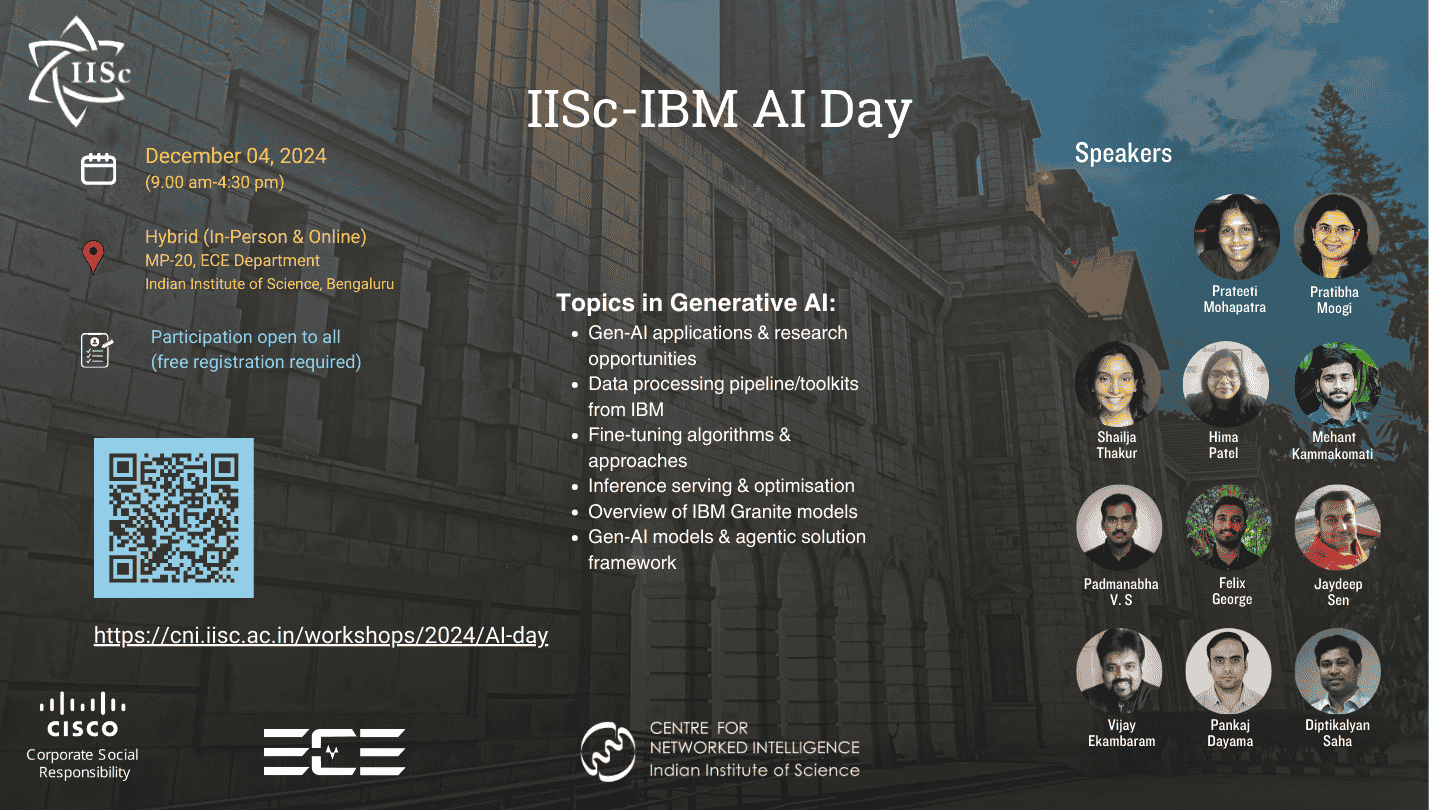
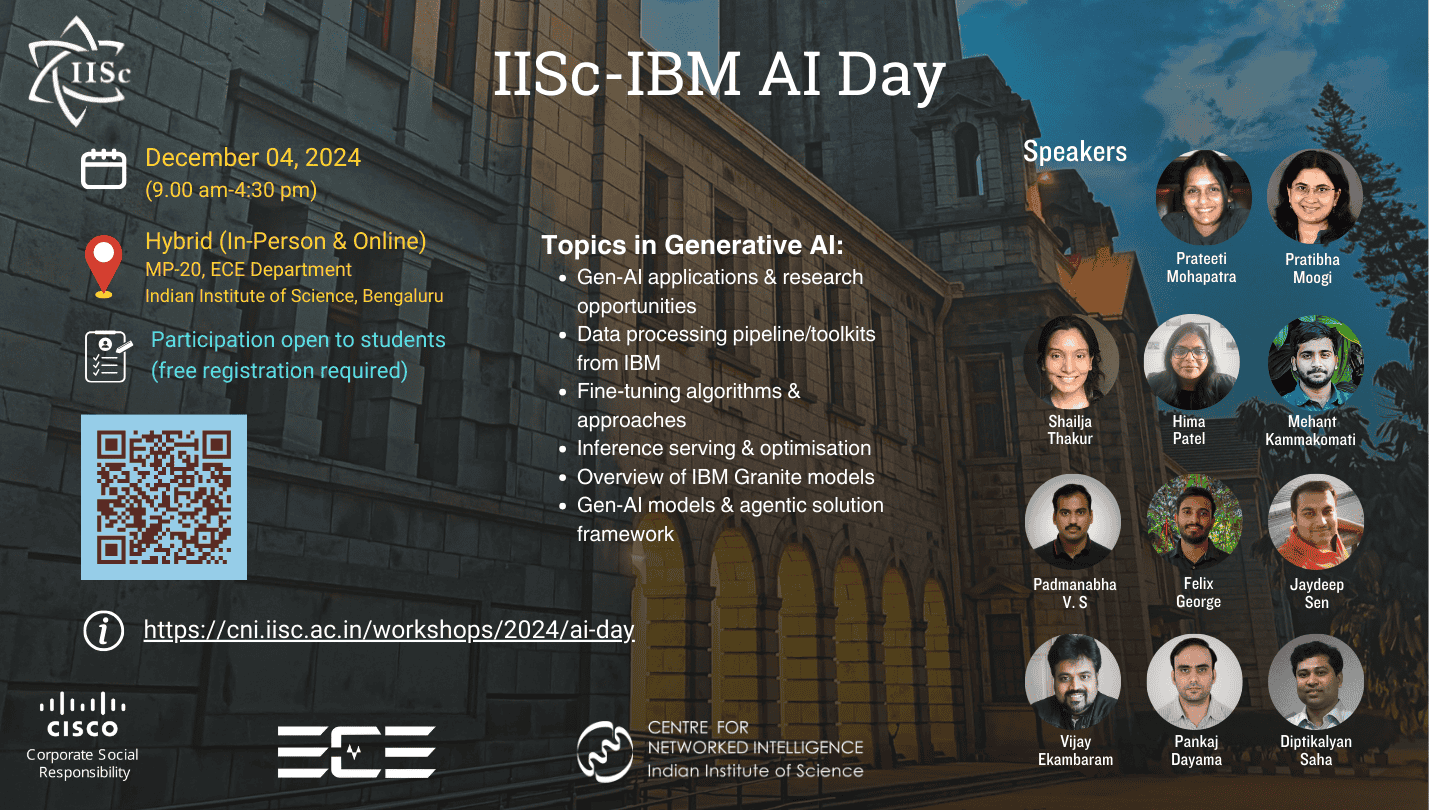
AI day poster and website update

diff --git a/_sass/_base.scss b/_sass/_base.scss
@@ -53,16 +53,20 @@ a, table.table a {
   }
 }
 
+//	margin: 0px;
 .mbtablestyle {
         border-collapse: collapse;
 
    > table {
 	width: 100%;
-	margin: 0px;
 	}
    > table, td, th {
-        border: 1px solid #dee2e6;
+        border: 2px solid #ced2d6;
     	font-size: 1rem;
+	padding-top: 0.3rem;
+  	padding-bottom: 0.3rem;
+  	padding-left: 1rem;
+  	padding-right: 2rem;
         }
 }
 

diff --git a/_workshops/2024/ai-day.md b/_workshops/2024/ai-day.md
@@ -16,16 +16,19 @@ IISc-IBM AI Day is being jointly organized by the Centre for Networked Intellige
 The goal of this workshop would be to apprise the audience of Generative AI, a set of toolkits from IBM for GenAI, and various LLMs from IBM for diverse applications.
 <br>
 
-### 🗓 Date
+#### 🗓 Date
 **December 04, 2024 (9am-4:30pm)**
 
-### 📍 Venue
+#### 📍 Venue
 **In-person: Room MP-20, ECE Department, Indian Institute of Science Campus, Bengaluru**
  ([📌 Map location](https://maps.app.goo.gl/NMirvDu29TTQhtiw7))
 <br>
 **Online: link will be shared with registered participants.**
 
-### 🗒 Schedule, topics, speakers, and learning objectives
+#### 👪 Target audience
+The workshop is targeted at engineering/science students (pursuing graduate/undergraduate level educational program in India), keen on learning the application of Gen-AI in diverse domains and building systems for Gen-AI.
+
+#### 🗒 Schedule, topics, speakers, and learning objectives
 
 <br>
 
@@ -71,23 +74,23 @@ lyan
 AI agents have gained substantial attention in recent years due to the surge in AI capabilities and the demand for automation in complex tasks. AI agents' ability to reason, plan, act, and interact represents a significant advancement over traditional automation techniques. This talk will provide theoretical insights into AI agents' properties and frameworks like LangChain and LangGraph and have practical demonstrations of how they can be applied within the software engineering domain, such as test case generation, program repair, and application understanding.
 <br><br>
 
-### 👥➕  Registration
+#### 👥➕  Registration
 
-#### In-person participation
-**IISc students may register for in-person participation by filling up the form at  [forms.gle/fg8rGcbVRb3Xmb8H8](htsps://forms.gle/fg8rGcbVRb3Xmb8H8). Since there are limited in-person slots, please register only if you are certain about attending for all sessions.**
+##### In-person participation
+**IISc persons may register for in-person participation by filling up the form at [https://forms.office.com/r/6s460R7yYS](https://forms.office.com/r/6s460R7yYS). Since there are limited in-person slots, please register only if you are certain about attending for all sessions.**
 <br><br>
 **Registration for non-IISc students will be open soon. Please check this page for updates.**
 
-#### Online participation
+##### Online participation
 
-**Please fill-in the form to register, for attending the workshop online: [forms.gle/fg8rGcbVRb3Xmb8H8](htsps://forms.gle/fg8rGcbVRb3Xmb8H8)**
+**Please fill-in the form to register for attending the workshop online: [https://forms.gle/yRtaqM5ZaSn15rvP8](https://forms.gle/yRtaqM5ZaSn15rvP8)**
 
 We'll email a Zoom link to all registered participants. _If you haven't received an email from outreach.cni@iisc.ac.in with online meeting link by December 02, please email outreach.cni@iisc.ac.in_.
 
-### ✉  Contact
-Please email [outreach.cni@iisc.ac.in](mailto:outreach.cni@iisc.ac.in) with the subject "AI Day" for further details.
+#### ✉  Contact
+Please email [outreach.cni@iisc.ac.in](mailto:outreach.cni@iisc.ac.in) with the subject "AI Day" for any queries.
 
-### Sponsors
+#### Sponsors
 <div class="container">
   <div class="row">
     <div class="col-md-6">
@@ -96,7 +99,7 @@ Please email [outreach.cni@iisc.ac.in](mailto:outreach.cni@iisc.ac.in) with the 
   </div>  
 </div>
 
-### Supported by
+#### Supported by
 <div class="container">
   <div class="row equal">
     <div class="col-md-6">
